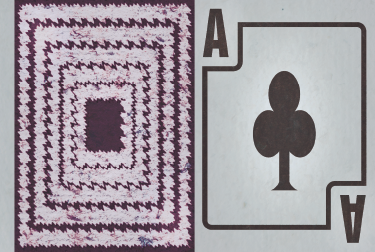
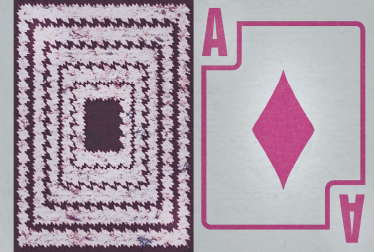
always floats

Changed region(s): [[0.0293, 0.0, 1.0, 1.0], [0.6747, 0.2778, 0.8507, 0.7778]]

diff --git a/src/app/invite/page.tsx b/src/app/invite/page.tsx
@@ -100,37 +100,98 @@ const addRotationAnimation = (
 const addFloatingAnimation = (mesh: BABYLON.Mesh, scene: BABYLON.Scene) => {
   const animation = new BABYLON.Animation(
     "floatingAnimation",
-    "position.y", // Property to animate
+    "position.y",
     60, // Frames per second
     BABYLON.Animation.ANIMATIONTYPE_FLOAT,
-    BABYLON.Animation.ANIMATIONLOOPMODE_CYCLE // Loop the animation
+    BABYLON.Animation.ANIMATIONLOOPMODE_CYCLE // Loop animation
   );
 
-  // Define keyframes
+  // Define keyframes for smooth up and down motion
   const keys = [
-    { frame: 0, value: mesh.position.y },         // Starting position
+    { frame: 0, value: mesh.position.y },         // Start at current position
     { frame: 30, value: mesh.position.y + 0.2 }, // Move up
-    { frame: 60, value: mesh.position.y },        // Return to starting position
+    { frame: 60, value: mesh.position.y },        // Return to start
   ];
 
   animation.setKeys(keys);
 
-  // Add easing for smooth motion
+  // Add easing for smooth transition
   const easingFunction = new BABYLON.SineEase();
   easingFunction.setEasingMode(BABYLON.EasingFunction.EASINGMODE_EASEINOUT);
   animation.setEasingFunction(easingFunction);
 
-  // Add animation to the mesh
-  mesh.animations = [animation];
-  scene.beginAnimation(mesh, 0, 60, true); // Loop animation
+  // Attach animation to the mesh
+  mesh.animations.push(animation);
+
+  // Start the animation and loop it infinitely
+  scene.beginAnimation(mesh, 0, 60, true);
 };
+
+const addHoverInteraction = (
+  mesh: BABYLON.Mesh,
+  scene: BABYLON.Scene,
+  isAnimating: React.MutableRefObject<boolean>,
+  setNewCardTexture: () => void
+) => {
+  mesh.actionManager = new BABYLON.ActionManager(scene);
+
+  mesh.actionManager.registerAction(
+    new BABYLON.ExecuteCodeAction(
+      BABYLON.ActionManager.OnPointerOverTrigger,
+      () => {
+        if (!isAnimating.current) {
+          isAnimating.current = true;
+
+          // Add rotation animation
+          const rotationAnimation = new BABYLON.Animation(
+            "hoverRotation",
+            "rotation.y",
+            60, // Frames per second
+            BABYLON.Animation.ANIMATIONTYPE_FLOAT,
+            BABYLON.Animation.ANIMATIONLOOPMODE_CONSTANT
+          );
+
+          // Keyframes for full rotation
+          const keys = [
+            { frame: 0, value: mesh.rotation.y },
+            { frame: 60, value: mesh.rotation.y + Math.PI * 2 },
+          ];
+          rotationAnimation.setKeys(keys);
+
+          const easingFunction = new BABYLON.SineEase();
+          easingFunction.setEasingMode(BABYLON.EasingFunction.EASINGMODE_EASEINOUT);
+          rotationAnimation.setEasingFunction(easingFunction);
+
+          mesh.animations.push(rotationAnimation);
+          const animatable = scene.beginAnimation(mesh, 0, 60, false);
+
+          // Change UV texture halfway through the animation
+          setTimeout(() => {
+            setNewCardTexture();
+          }, 500);
+
+          animatable.onAnimationEnd = () => {
+            isAnimating.current = false; // Reset the flag
+
+            // Restart the floating animation
+            addFloatingAnimation(mesh, scene);
+          };
+        }
+      }
+    )
+  );
+};
+
+
+
 
 
 //Objects
 const createCard = (
   card: string,
   scene: BABYLON.Scene,
-  initialRotation: { x: number; y: number; z: number }
+  initialRotation: { x: number; y: number; z: number },
+  isAnimating: React.MutableRefObject<boolean> // Add isAnimating
 ): BABYLON.Mesh | null => {
   try {
     const texturePath = getCardImage(card);
@@ -141,7 +202,7 @@ const createCard = (
       new BABYLON.Vector4(2 / 114, 0, 1 / 114, 1), // Side
       new BABYLON.Vector4(3 / 114, 0, 2 / 114, 1), // Side
       new BABYLON.Vector4(4 / 114, 0, 3 / 114, 1), // Side
-      new BABYLON.Vector4(59 / 114, 0, 1, 1), // Face of Card (Front)
+      new BABYLON.Vector4(59 / 114, 0, 1, 1),      // Face of Card (Front)
       new BABYLON.Vector4(59 / 114, 0, 4 / 114, 1), // Back of Card
     ];
 
@@ -150,12 +211,16 @@ const createCard = (
     cardMaterial.emissiveColor = new BABYLON.Color3(1, 1, 1);
 
     // Create card mesh
-    const cardMesh = BABYLON.MeshBuilder.CreateBox(card, {
+    const cardMesh = BABYLON.MeshBuilder.CreateBox(
+      card,
+      {
         width: relWidth * relModifier,
         height: relHeight * relModifier,
         depth: relDepth * relModifier,
-        faceUV: faceUV
-    }, scene);
+        faceUV: faceUV,
+      },
+      scene
+    );
 
     cardMesh.material = cardMaterial;
     cardMesh.position = new BABYLON.Vector3(0, 0.45, 0);
@@ -164,12 +229,26 @@ const createCard = (
       initialRotation.y,
       initialRotation.z
     );
+
+    // Add floating animation
+    addFloatingAnimation(cardMesh, scene);
+
+    // Add hover interaction
+    addHoverInteraction(
+      cardMesh,
+      scene,
+      isAnimating, // Pass isAnimating
+      () => changeCardTexture(cardMesh, scene)
+    );
+
     return cardMesh;
   } catch (error) {
     console.error("Error creating card:", error);
     return null;
   }
 };
+
+
 
 
 
@@ -232,24 +311,14 @@ const Invite: React.FC = () => {
     }
   
     // Create and assign the new card mesh
-    const newCard = createCard(selectedCard, scene, initialRotation);
+    const newCard = createCard(selectedCard, scene, initialRotation, isAnimating); // Pass isAnimating here
     if (newCard) {
       cardMeshRef.current = newCard;
-  
-      // Add hover effects
-      newCard.actionManager = new BABYLON.ActionManager(scene);
-      newCard.actionManager.registerAction(
-        new BABYLON.ExecuteCodeAction(
-          BABYLON.ActionManager.OnPointerOverTrigger,
-          () => {
-            addRotationAnimation(newCard, scene, isAnimating, () => {
-              changeCardTexture(newCard, scene);
-            });
-          }
-        )
-      );
     }
   }, [selectedCard, scene]);
+  
+  
+  
   
 
   return (
